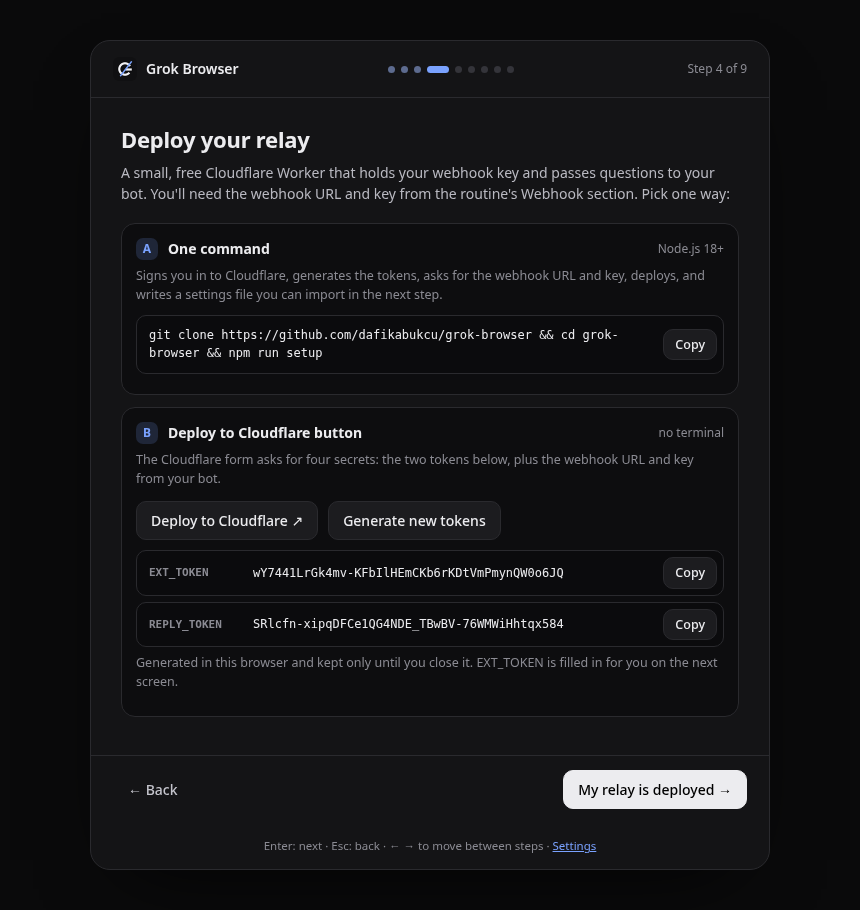
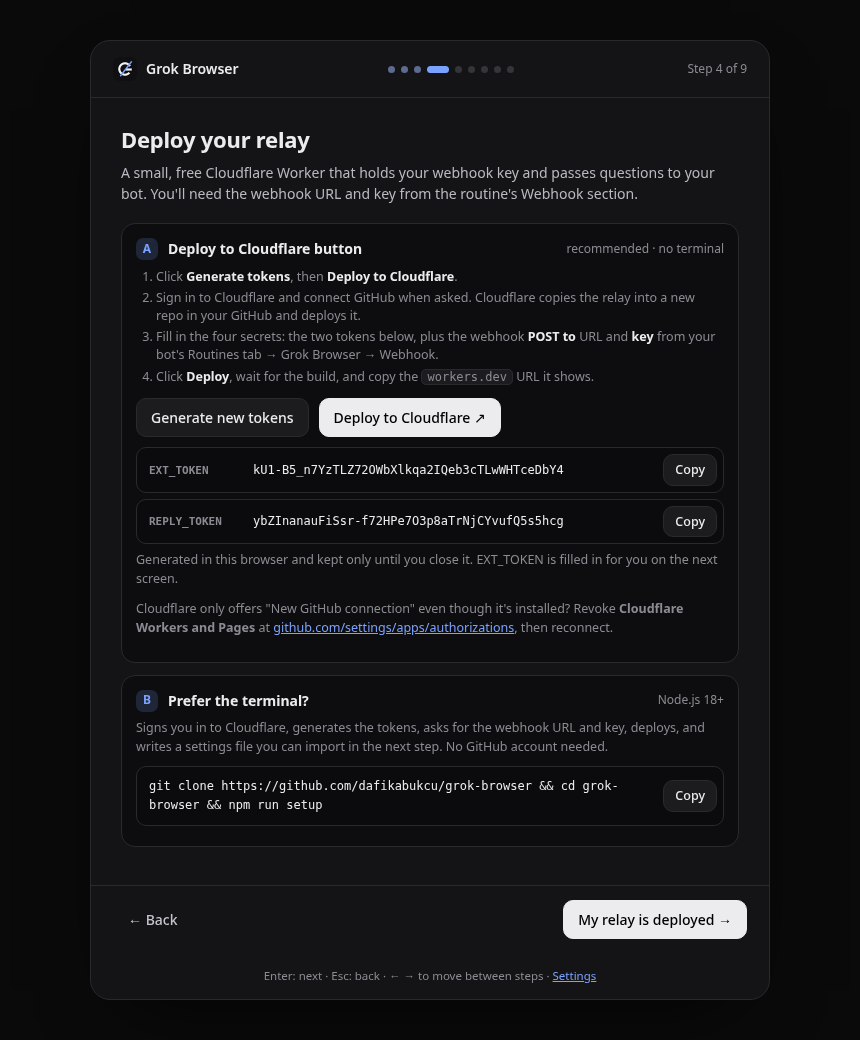
Make the Deploy to Cloudflare button the primary relay setup path; npm run setup as terminal fallback; GitHub-connection troubleshooting

diff --git a/extension/onboarding.html b/extension/onboarding.html
@@ -55,28 +55,34 @@
     <!-- 3b. Deploy -->
     <section class="step" data-step="byo-deploy" hidden>
       <h1 tabindex="-1">Deploy your relay</h1>
-      <p class="lead">A small, free Cloudflare Worker that holds your webhook key and passes questions to your bot. You'll need the webhook URL and key from the routine's Webhook section. Pick one way:</p>
+      <p class="lead">A small, free Cloudflare Worker that holds your webhook key and passes questions to your bot. You'll need the webhook URL and key from the routine's Webhook section.</p>
       <div class="opt">
-        <div class="opt-h"><span class="tag">A</span><b>One command</b><span class="muted">Node.js 18+</span></div>
-        <p class="muted small">Signs you in to Cloudflare, generates the tokens, asks for the webhook URL and key, deploys, and writes a settings file you can import in the next step.</p>
-        <div class="cmd"><code id="setupCmd">git clone https://github.com/dafikabukcu/grok-browser &amp;&amp; cd grok-browser &amp;&amp; npm run setup</code><button class="btn sm" data-copy="setupCmd">Copy</button></div>
-      </div>
-      <div class="opt">
-        <div class="opt-h"><span class="tag">B</span><b>Deploy to Cloudflare button</b><span class="muted">no terminal</span></div>
-        <p class="muted small">The Cloudflare form asks for four secrets: the two tokens below, plus the webhook URL and key from your bot.</p>
-        <div class="row"><a id="deployLink" class="btn" href="https://deploy.workers.cloudflare.com/?url=https://github.com/dafikabukcu/grok-browser/tree/main/relay" target="_blank" rel="noopener">Deploy to Cloudflare ↗</a><button id="genTokens" class="btn">Generate tokens</button></div>
+        <div class="opt-h"><span class="tag">A</span><b>Deploy to Cloudflare button</b><span class="muted">recommended · no terminal</span></div>
+        <ol class="small steps-list">
+          <li>Click <b>Generate tokens</b>, then <b>Deploy to Cloudflare</b>.</li>
+          <li>Sign in to Cloudflare and connect GitHub when asked. Cloudflare copies the relay into a new repo in your GitHub and deploys it.</li>
+          <li>Fill in the four secrets: the two tokens below, plus the webhook <b>POST to</b> URL and <b>key</b> from your bot's Routines tab → Grok Browser → Webhook.</li>
+          <li>Click <b>Deploy</b>, wait for the build, and copy the <code>workers.dev</code> URL it shows.</li>
+        </ol>
+        <div class="row"><button id="genTokens" class="btn">Generate tokens</button><a id="deployLink" class="btn primary" href="https://deploy.workers.cloudflare.com/?url=https://github.com/dafikabukcu/grok-browser/tree/main/relay" target="_blank" rel="noopener">Deploy to Cloudflare ↗</a></div>
         <div id="tokens" class="tokens" hidden>
           <div class="cmd"><span class="lbl">EXT_TOKEN</span><code id="tokExt"></code><button class="btn sm" data-copy="tokExt">Copy</button></div>
           <div class="cmd"><span class="lbl">REPLY_TOKEN</span><code id="tokReply"></code><button class="btn sm" data-copy="tokReply">Copy</button></div>
           <p class="muted small">Generated in this browser and kept only until you close it. EXT_TOKEN is filled in for you on the next screen.</p>
         </div>
+        <p class="muted small">Cloudflare only offers "New GitHub connection" even though it's installed? Revoke <b>Cloudflare Workers and Pages</b> at <a href="https://github.com/settings/apps/authorizations" target="_blank" rel="noopener">github.com/settings/apps/authorizations</a>, then reconnect.</p>
+      </div>
+      <div class="opt">
+        <div class="opt-h"><span class="tag">B</span><b>Prefer the terminal?</b><span class="muted">Node.js 18+</span></div>
+        <p class="muted small">Signs you in to Cloudflare, generates the tokens, asks for the webhook URL and key, deploys, and writes a settings file you can import in the next step. No GitHub account needed.</p>
+        <div class="cmd"><code id="setupCmd">git clone https://github.com/dafikabukcu/grok-browser &amp;&amp; cd grok-browser &amp;&amp; npm run setup</code><button class="btn sm" data-copy="setupCmd">Copy</button></div>
       </div>
     </section>
 
     <!-- 3c. Connect -->
     <section class="step" data-step="byo-connect" hidden>
       <h1 tabindex="-1">Connect this extension</h1>
-      <p class="lead">Paste your relay's URL and EXT_TOKEN, or import the settings file that <code>npm run setup</code> wrote (<code>relay/grok-browser-settings.json</code>).</p>
+      <p class="lead">Paste the <code>workers.dev</code> URL from your deploy and your EXT_TOKEN, or import the settings file that <code>npm run setup</code> wrote (<code>relay/grok-browser-settings.json</code>).</p>
       <label class="field">Relay URL<input id="relayUrl" type="url" placeholder="https://grok-browser-relay.<your-subdomain>.workers.dev" spellcheck="false" autocomplete="off"></label>
       <div id="relayUrlErr" class="hint"></div>
       <label class="field">Extension token (EXT_TOKEN)

diff --git a/extension/onboarding.css b/extension/onboarding.css
@@ -52,6 +52,7 @@ kbd{padding:1px 6px;border-bottom-width:2px}
 .opt{border:1px solid var(--line);border-radius:14px;padding:14px;background:var(--in);margin-bottom:12px}
 .opt p{margin:6px 0 10px}
 .opt-h{display:flex;align-items:center;gap:10px}.opt-h .muted{margin-left:auto;font-size:12px}
+.steps-list{margin:8px 0 10px;padding-left:20px;color:var(--mut)}.steps-list li{margin:3px 0;line-height:1.45}.steps-list b{color:var(--fg)}
 .tag{display:grid;place-items:center;width:22px;height:22px;border-radius:7px;background:#1f2638;color:var(--acc);font-weight:700;font-size:12px}
 .cmd{display:flex;gap:8px;align-items:center;background:#0b0b0d;border:1px solid var(--line);border-radius:10px;padding:6px 6px 6px 12px;margin:6px 0;min-width:0}
 .cmd code{flex:1;min-width:0;border:0;background:none;padding:4px 0;font-size:12px;white-space:pre-wrap;overflow-wrap:anywhere;line-height:1.55}

diff --git a/README.md b/README.md
@@ -74,13 +74,46 @@ Your bot creates the routine. Bots can't see their own webhook keys, so copy the
 
 ### 2. Deploy your relay
 
-**Option A: one command** (needs Node 18+ and a free Cloudflare account):
+The relay is a small Cloudflare Worker that runs free in your own Cloudflare account. It holds your webhook key and passes questions to your bot.
+
+[![Deploy to Cloudflare](https://deploy.workers.cloudflare.com/button)](https://deploy.workers.cloudflare.com/?url=https://github.com/dafikabukcu/grok-browser/tree/main/relay)
+
+1. **Click the button** above, or **Deploy to Cloudflare** on the wizard's *Deploy your relay* screen.
+2. **Sign in to Cloudflare** (a free account is fine) and **connect your GitHub account** when asked. Cloudflare copies the relay into a new repo in your GitHub account and deploys it from there. You can keep the suggested project and Worker names.
+3. **Fill in the four secrets:**
+
+   | Secret | What to enter |
+   |---|---|
+   | `EXT_TOKEN` | A long random string, at least 24 characters. The extension sends it. |
+   | `REPLY_TOKEN` | A *different* long random string, at least 24 characters. Your bot uses it. |
+   | `GROKBOT_WEBHOOK_URL` | The routine's webhook **POST to** URL from step 1 (your bot's **Routines** tab → **Grok Browser** → **Webhook**). |
+   | `GROKBOT_WEBHOOK_KEY` | The webhook **key** from the same Webhook section. |
+
+   To get the two tokens, click **Generate tokens** on the wizard's *Deploy your relay* screen (it also fills in `EXT_TOKEN` on the next screen for you), or run this twice in a terminal:
+
+   ```bash
+   openssl rand -base64 32
+   ```
+
+   The relay treats any token shorter than 24 characters as unset and stays locked.
+4. Click **Deploy** and wait for the build to finish (about a minute).
+5. **Copy the `workers.dev` URL** shown at the end (like `https://grok-browser-relay.<your-subdomain>.workers.dev`). You paste it into the extension in step 3.
+
+You can change the secrets later in the Cloudflare dashboard: **Workers & Pages** → your Worker → **Settings** → **Variables and Secrets**.
+
+<details><summary>Troubleshooting: Cloudflare only shows "New GitHub connection"</summary>
+
+If the form's Git account section only offers **New GitHub connection**, even though the Cloudflare app is already installed on your GitHub account, the link between the two accounts is stale. Open [github.com/settings/apps/authorizations](https://github.com/settings/apps/authorizations), revoke **Cloudflare Workers and Pages**, then open the Deploy link again and reconnect GitHub.
+
+</details>
+
+**Prefer the terminal?** One command does the same (needs Node 18+ and a free Cloudflare account):
 
 ```bash
 git clone https://github.com/dafikabukcu/grok-browser && cd grok-browser && npm run setup
 ```
 
-`npm run setup` signs you in to Cloudflare (`wrangler login`) and generates two random 256-bit tokens: `EXT_TOKEN` for the extension and `REPLY_TOKEN` for your bot. It asks for the webhook URL and key from step 1, then deploys the Worker, stores all four values as Worker **secrets**, smoke-tests the relay, and writes `relay/grok-browser-settings.json`, which you can import into the extension.
+`npm run setup` signs you in to Cloudflare (`wrangler login`) and generates two random 256-bit tokens: `EXT_TOKEN` for the extension and `REPLY_TOKEN` for your bot. It asks for the webhook URL and key from step 1, then deploys the Worker, stores all four values as Worker **secrets**, smoke-tests the relay, and writes `relay/grok-browser-settings.json`, which you can import into the extension. No GitHub account is needed.
 
 Tokens are saved in `relay/.grok-browser-secrets.json` (git-ignored, mode 600) and are never printed. To see them, run `node relay/scripts/setup.mjs --show-tokens`. To replace them, use `--rotate-tokens`.
 
@@ -90,22 +123,11 @@ To run it without prompts (for example from a script), set `GROKBOT_WEBHOOK_URL`
 GROKBOT_WEBHOOK_URL=... GROKBOT_WEBHOOK_KEY=... npm run setup -- --name grok-browser-relay-test
 ```
 
-**Option B: Deploy to Cloudflare button**
-
-[![Deploy to Cloudflare](https://deploy.workers.cloudflare.com/button)](https://deploy.workers.cloudflare.com/?url=https://github.com/dafikabukcu/grok-browser/tree/main/relay)
-
-Click **Generate new tokens** on the wizard's *Deploy your relay* screen, then paste the four secrets into the Cloudflare form:
-
-| Secret | Value |
-|---|---|
-| `EXT_TOKEN` | the first generated token (the extension uses it) |
-| `REPLY_TOKEN` | the second generated token (your bot uses it) |
-| `GROKBOT_WEBHOOK_URL` | the routine's webhook URL from step 1 |
-| `GROKBOT_WEBHOOK_KEY` | the routine's sender key from step 1 |
+> **Forks and copies:** the Deploy to Cloudflare button only works for a **public** GitHub repo. If you host your own copy, make it public and change `dafikabukcu/grok-browser` in the button URL to your repo.
 
 ### 3. Connect the extension
 
-In the wizard's *Connect* screen (or **Settings → Relay**), paste the relay URL (`https://grok-browser-relay.<your-subdomain>.workers.dev`) and `EXT_TOKEN`, or use **Import settings file**. In Settings, click **Save**; the wizard saves when you press **Next**.
+In the wizard's *Connect* screen (or **Settings → Relay**), paste the `workers.dev` relay URL from your deploy and your `EXT_TOKEN` (already filled in if you used **Generate tokens**). If you used `npm run setup`, click **Import settings file** instead. In Settings, click **Save**; the wizard saves when you press **Next**.
 
 ### 4. Tell your bot
 
